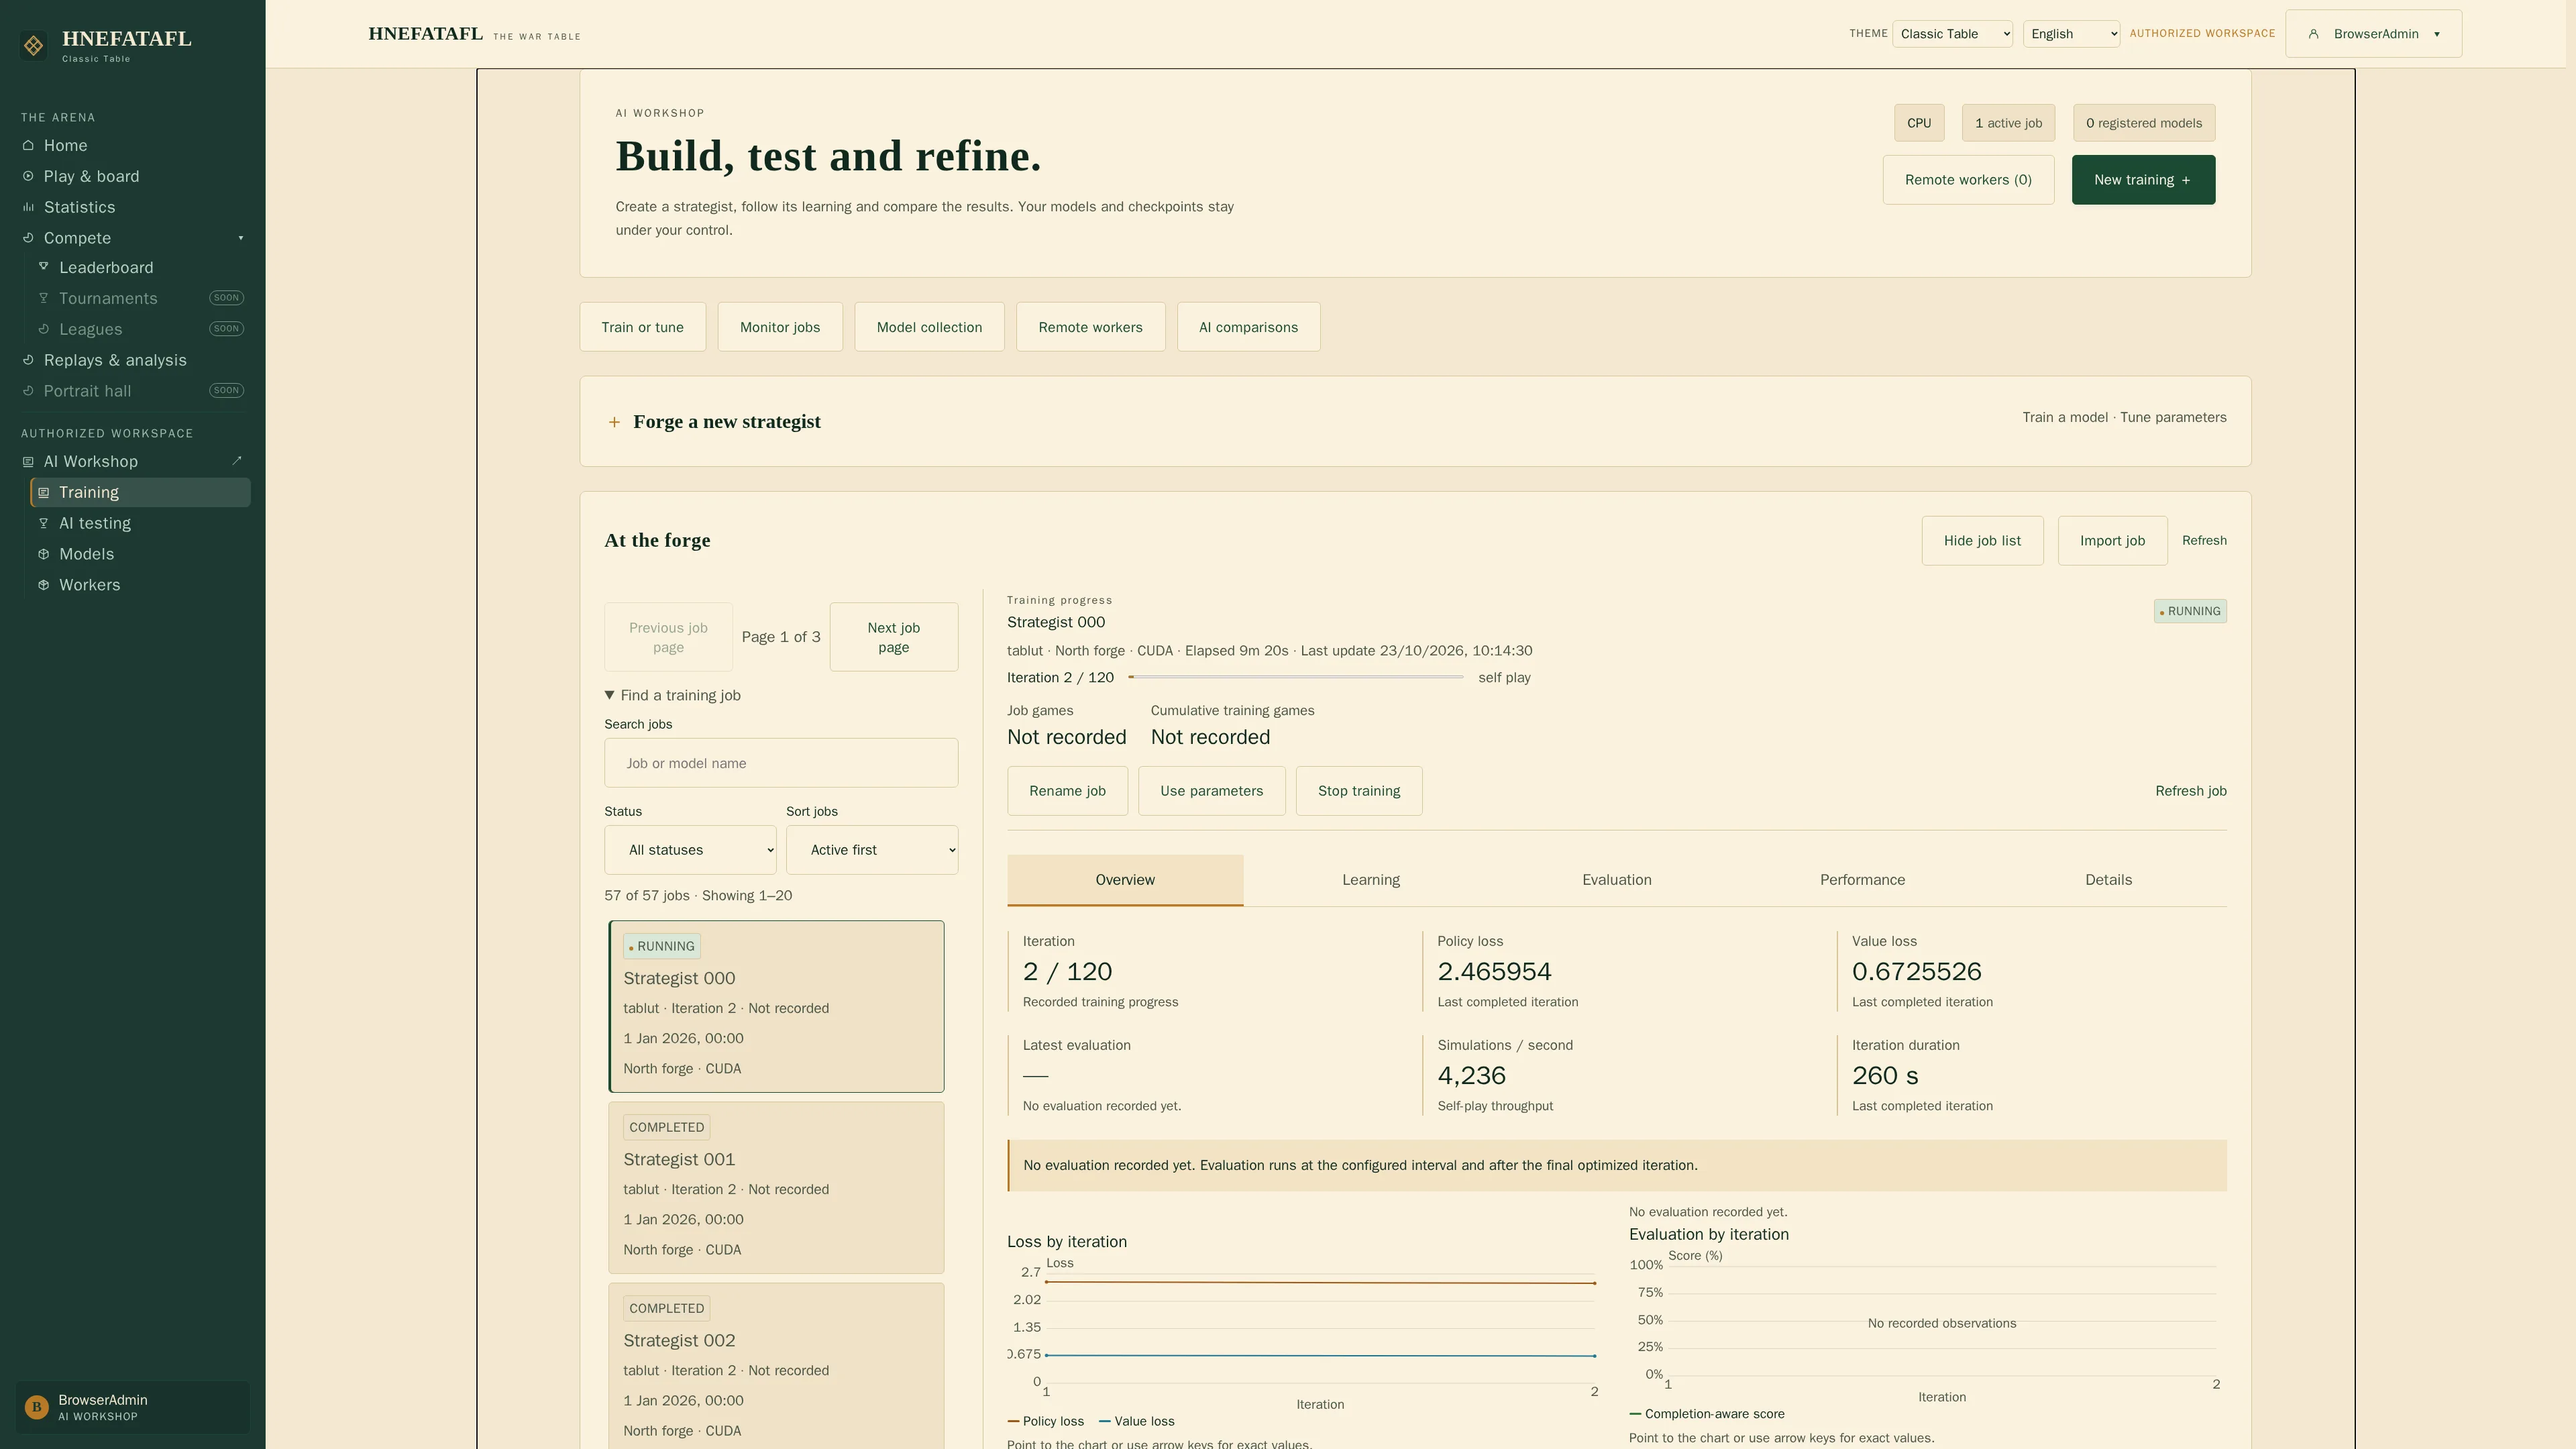
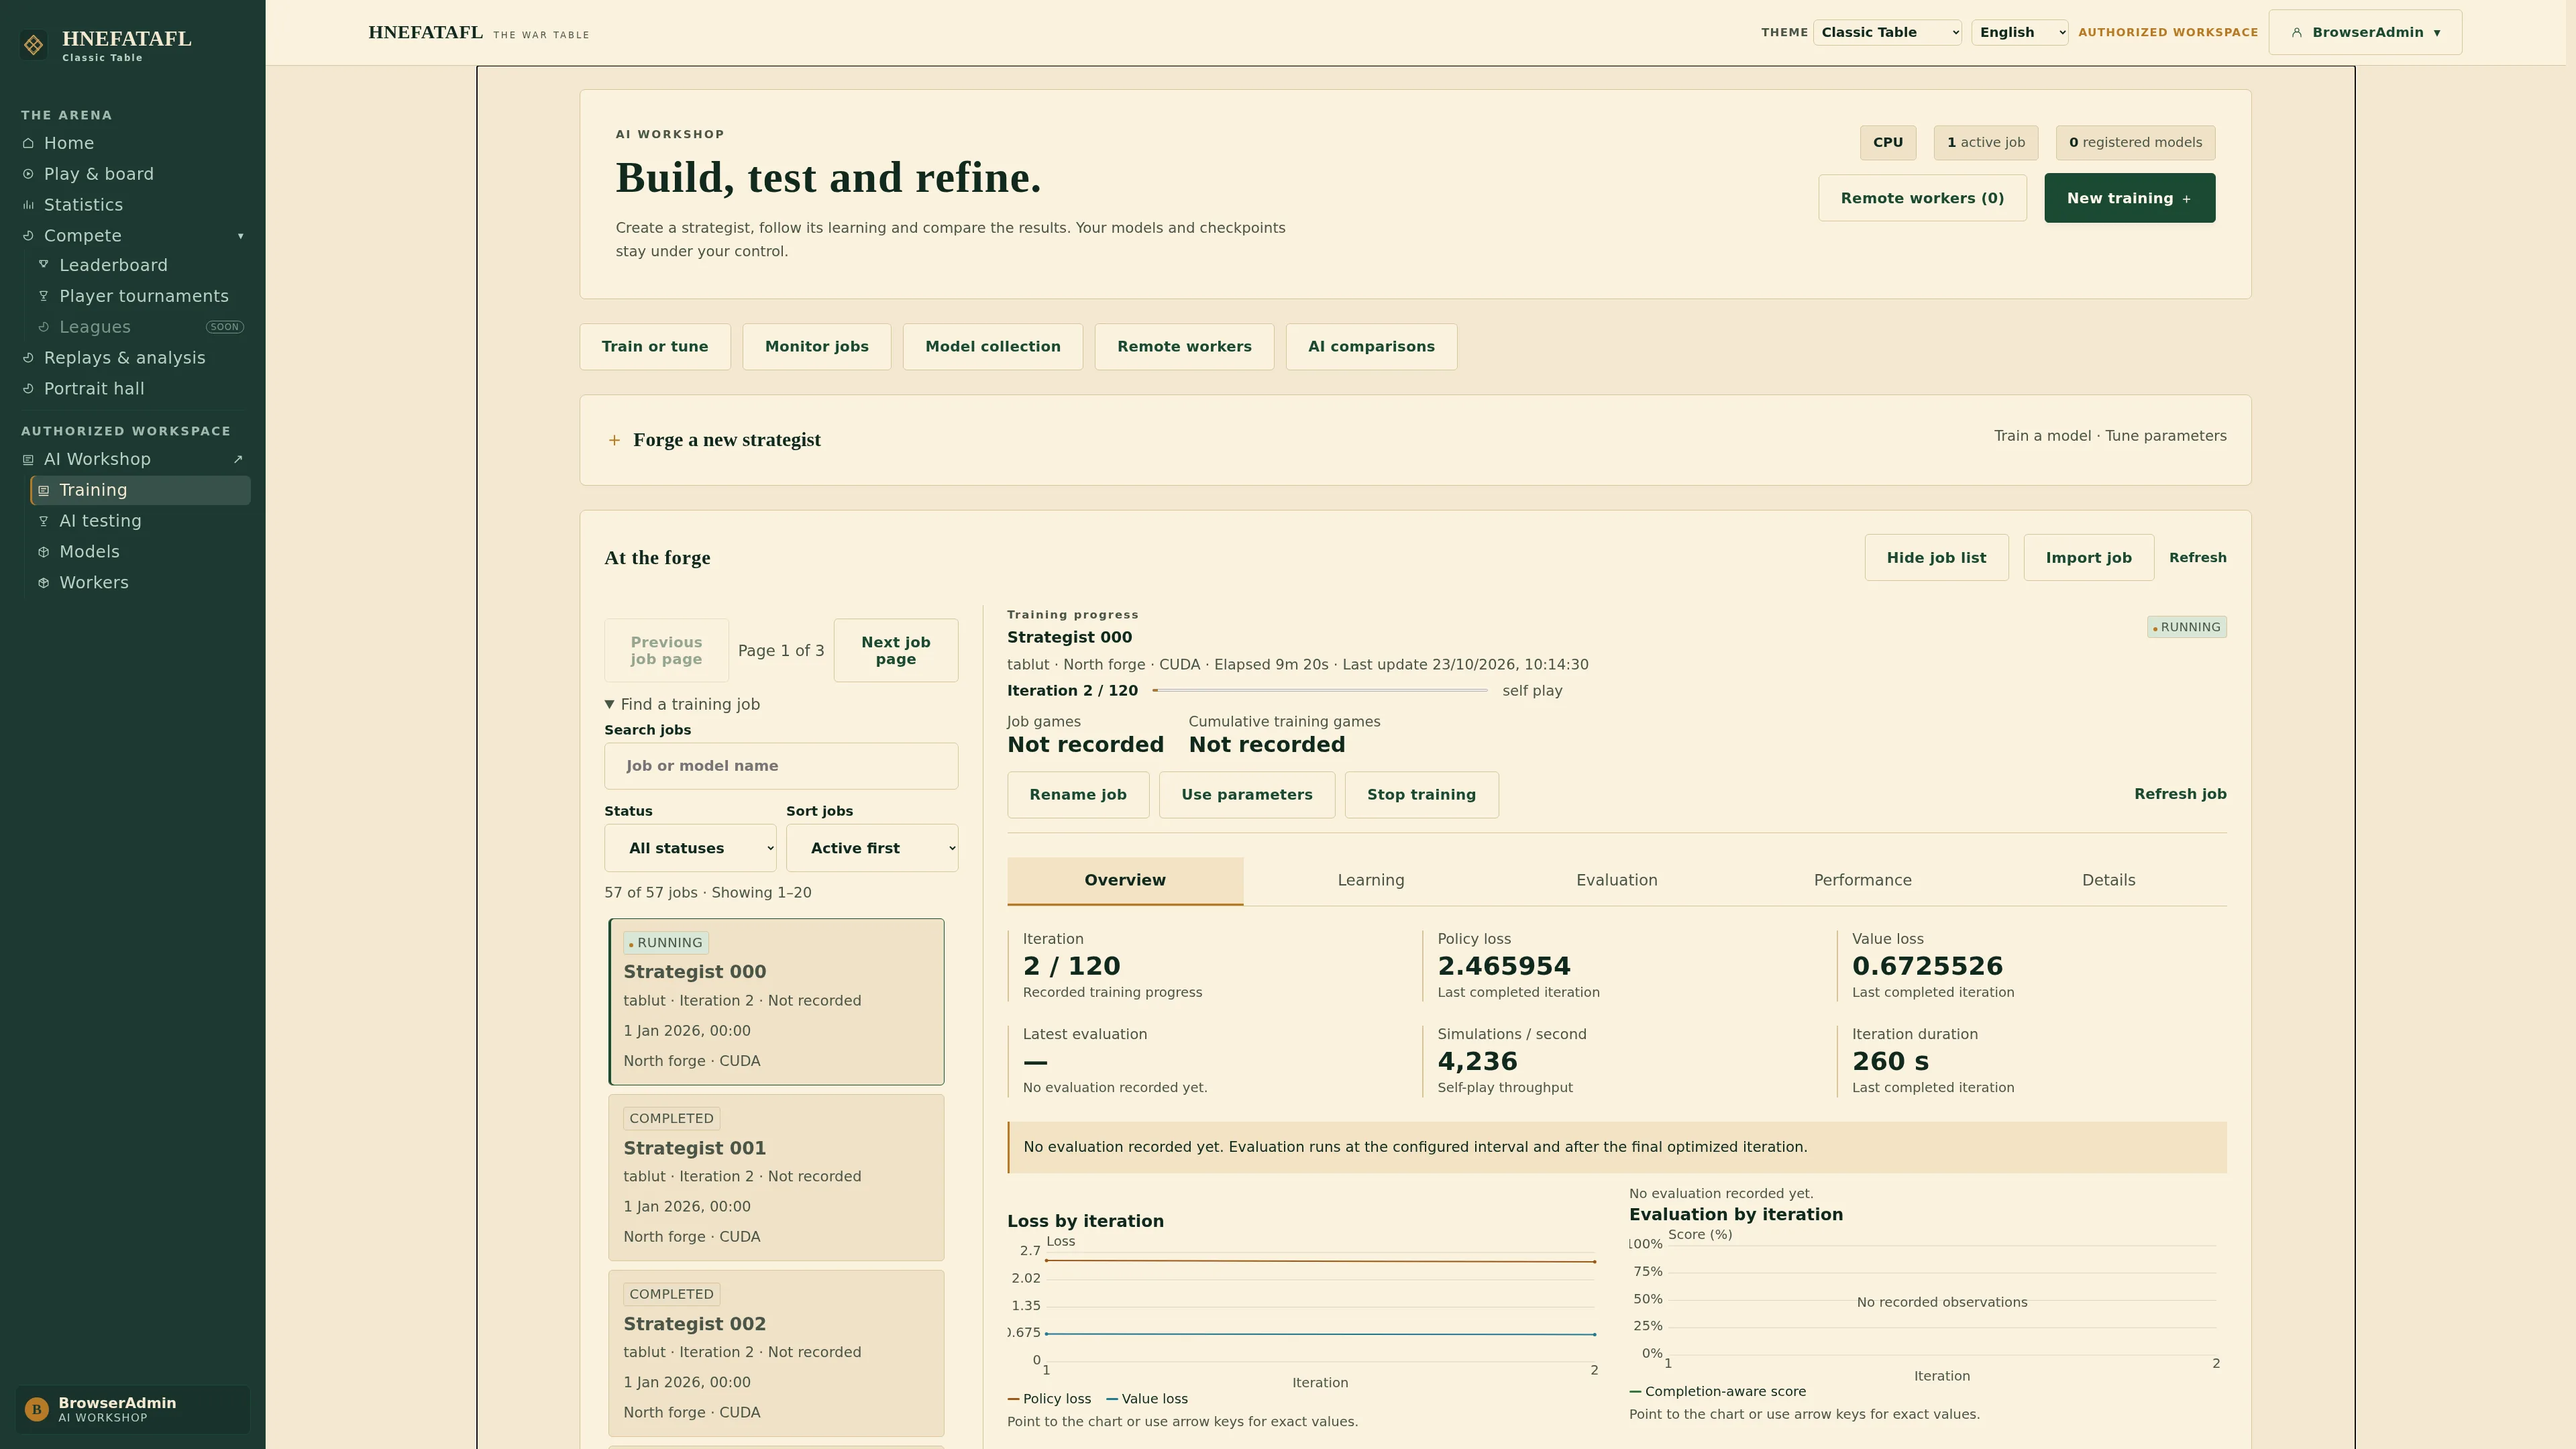
fix: restore vertical spacing on the AI comparison page
The comparison intro is the first child of main, which has no top padding,
so it sat directly against the header. The same missing rhythm left the
intro touching the tournament workspace and stacked the empty-state action
buttons with no gap; the training intro shared the header cause.

Reuse the shared tokens: --gap-card above the workshop intros and the
tournament workspace (and above/below a transient notice), and --gap-inline
between the grouped empty-state actions. Regenerate the eight committed
training captures at 1920 and 3840 after the training intro moves.

diff --git a/frontend/src/Tournaments.tsx b/frontend/src/Tournaments.tsx
@@ -716,20 +716,22 @@ export default function Tournaments({
                     {t('Explore every result')}
                   </span>
                 </div>
-                <button
-                  className="button secondary"
-                  onClick={openSetup}
-                  disabled={loading || running}
-                >
-                  {t('Set up a tournament')}
-                </button>
-                <button
-                  className="button secondary"
-                  onClick={openFixedSetup}
-                  disabled={loading || running}
-                >
-                  {t('Fixed-role comparison')}
-                </button>
+                <div className="tournament-welcome-actions">
+                  <button
+                    className="button secondary"
+                    onClick={openSetup}
+                    disabled={loading || running}
+                  >
+                    {t('Set up a tournament')}
+                  </button>
+                  <button
+                    className="button secondary"
+                    onClick={openFixedSetup}
+                    disabled={loading || running}
+                  >
+                    {t('Fixed-role comparison')}
+                  </button>
+                </div>
                 <small>{t('Saved automatically. Come back whenever you like.')}</small>
               </section>
             )

diff --git a/frontend/src/tournaments.css b/frontend/src/tournaments.css
@@ -3,6 +3,8 @@
   grid-template-columns: minmax(230px, 0.8fr) minmax(0, 2.4fr);
   align-items: start;
   gap: var(--gap-card);
+  /* Separate the workspace from the intro (or a transient notice) above it. */
+  margin-top: var(--gap-card);
 }
 .tournament-history {
   padding: var(--pad-panel);
@@ -141,6 +143,12 @@
   margin-top: 15px;
   font-size: 0.625rem;
   color: var(--muted);
+}
+.tournament-welcome-actions {
+  display: flex;
+  flex-direction: column;
+  align-items: center;
+  gap: var(--gap-inline);
 }
 .tournament-promise {
   display: flex;
@@ -552,7 +560,7 @@
   min-height: 34px;
 }
 .tournament-notice {
-  margin: 0 0 22px;
+  margin: var(--gap-card) 0;
 }
 .tournament-setup {
   max-width: 760px;

diff --git a/frontend/src/workshopConsolidation.css b/frontend/src/workshopConsolidation.css
@@ -2,6 +2,9 @@
    behind charts or settings. Existing disclosures, tabs and anchors stay intact. */
 .training-workshop .workshop-intro,
 .workshop-comparison-intro {
+  /* The intro is the first child of main, which has no top padding; match the
+     shared inter-section rhythm so it never touches the application header. */
+  margin-top: var(--gap-card);
   padding: clamp(1rem, 2vw, 2rem);
   display: flex;
   align-items: flex-start;
